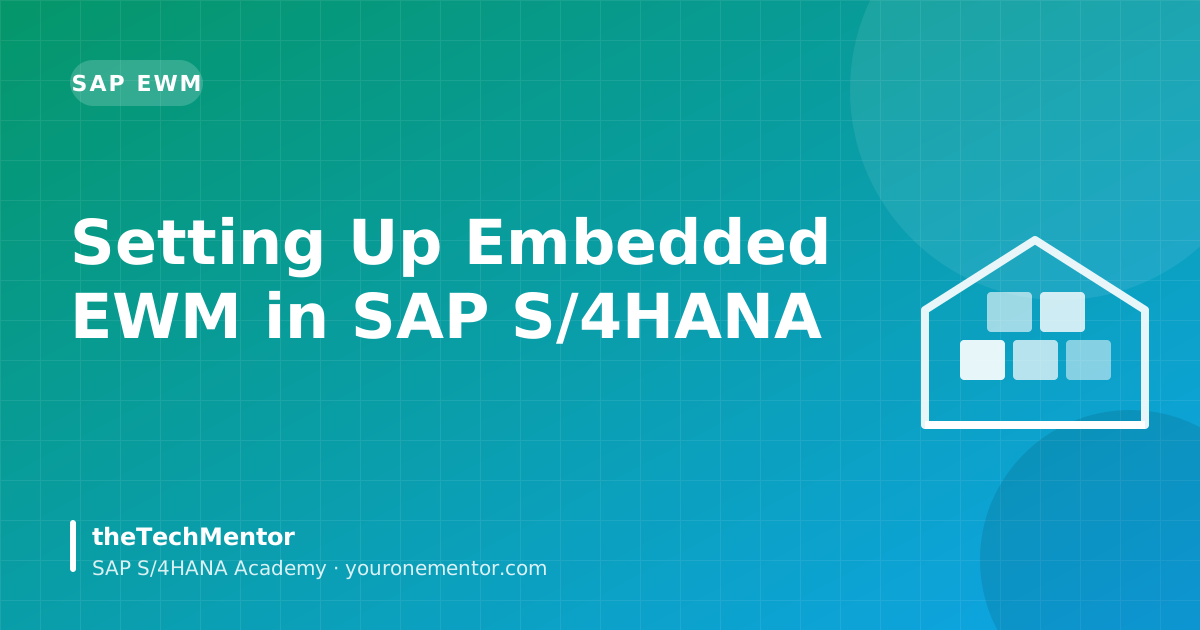
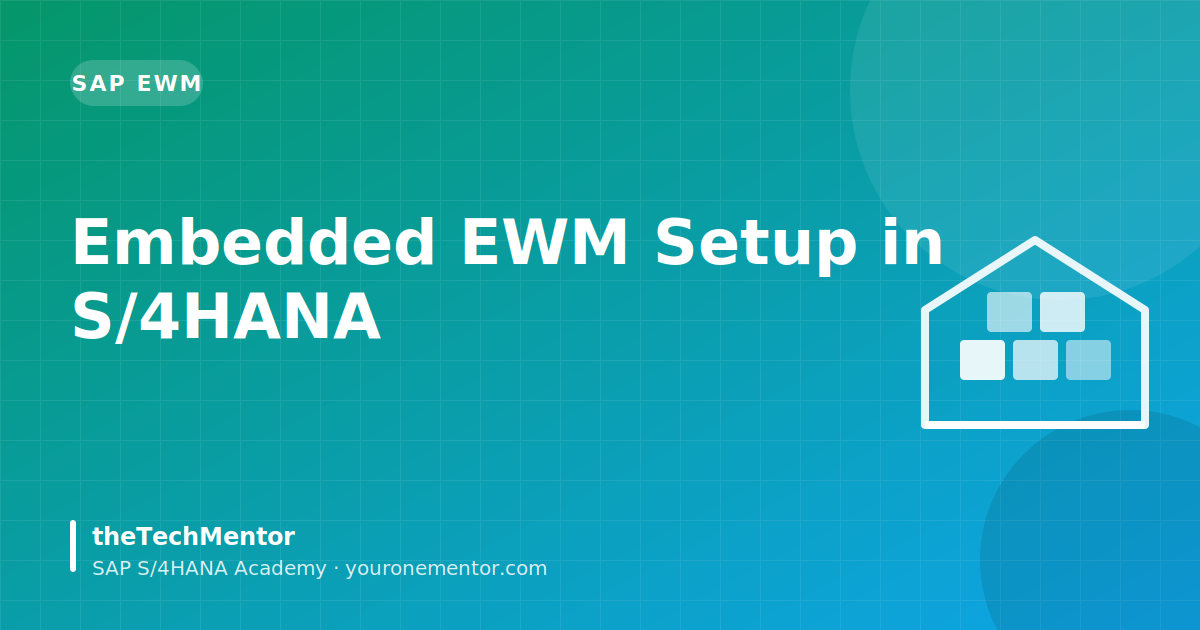
feat(blog): automated article

diff --git a/legacy/blog/embedded-ewm-s4hana-setup-walkthrough.html b/legacy/blog/embedded-ewm-s4hana-setup-walkthrough.html
@@ -3,97 +3,100 @@
 <head>
   <meta charset="UTF-8" />
   <meta name="viewport" content="width=device-width, initial-scale=1.0" />
-  <title>Setting Up Embedded EWM in SAP S/4HANA</title>
-  <meta name="description" content="Technical guide for setting up embedded EWM in SAP S/4HANA: warehouse numbering, storage types, sectioning, bin structures, and integration parameters." />
+  <title>Embedded EWM Setup in S/4HANA: Step-by-Step Walkthrough</title>
+  <meta name="description" content="Embedded EWM setup in S/4HANA explained: warehouse number, ERP mapping, storage types, bins, delivery integration, testing and errors. Follow the steps." />
   <link rel="canonical" href="https://youronementor.com/blog/embedded-ewm-s4hana-setup-walkthrough.html" />
-  <meta property="og:title" content="Setting Up Embedded EWM in SAP S/4HANA: Step-by-Step Walkthrough" />
-  <meta property="og:description" content="A comprehensive setup guide for SAP consultants implementing embedded warehouse management." />
+  <meta name="robots" content="index,follow,max-image-preview:large" />
+  <meta property="og:type" content="article" />
+  <meta property="og:url" content="https://youronementor.com/blog/embedded-ewm-s4hana-setup-walkthrough.html" />
+  <meta property="og:title" content="Setting Up Embedded EWM in S/4HANA: A Step-by-Step Architecture Walkthrough" />
+  <meta property="og:description" content="Embedded EWM setup in S/4HANA explained: warehouse number, ERP mapping, storage types, bins, delivery integration, testing and errors. Follow the steps." />
   <meta property="og:image" content="https://youronementor.com/blog/covers/embedded-ewm-s4hana-setup-walkthrough.png" />
+  <meta property="og:site_name" content="theTechMentor" />
+  <meta name="twitter:card" content="summary_large_image" />
+  <meta property="article:published_time" content="2026-11-20" />
+  <meta property="article:modified_time" content="2026-11-20" />
   <link rel="preconnect" href="https://fonts.googleapis.com" />
   <link rel="preconnect" href="https://fonts.gstatic.com" crossorigin />
-  <link rel="stylesheet" href="https://fonts.googleapis.com/css2?family=Inter:wght@400;500;600;700;800&family=Space+Grotesk:wght@500;600;700&display=swap" />
-  <link rel="stylesheet" href="../styles.css" />
-  <link rel="stylesheet" href="blog.css" />
-  <script src="https://checkout.razorpay.com/v1/checkout.js"></script>
-  <script type="application/ld+json">[{"@context": "https://schema.org", "@type": "Article", "headline": "Setting Up Embedded EWM in S/4HANA: A Step-by-Step Architecture Walkthrough", "description": "Technical guide for setting up embedded EWM in SAP S/4HANA: warehouse numbering, storage types, sectioning, bin structures, and integration parameters.", "image": "https://youronementor.com/images/og-cover.png", "author": {"@type": "Person", "name": "Anshuman Behuria", "url": "https://www.linkedin.com/in/anshuman-behuria-946860130"}, "publisher": {"@type": "Organization", "name": "theTechMentor", "url": "https://youronementor.com"}, "mainEntityOfPage": "https://youronementor.com/blog/embedded-ewm-s4hana-setup-walkthrough.html"}, {"@context": "https://schema.org", "@type": "BreadcrumbList", "itemListElement": [{"@type": "ListItem", "position": 1, "name": "Home", "item": "https://youronementor.com/"}, {"@type": "ListItem", "position": 2, "name": "Blog", "item": "https://youronementor.com/blog/"}, {"@type": "ListItem", "position": 3, "name": "Setting Up Embedded EWM in S/4HANA: A Step-by-Step Architecture Walkthrough", "item": "https://youronementor.com/blog/embedded-ewm-s4hana-setup-walkthrough.html"}]}]</script>
-  <meta name="robots" content="noindex,follow" />
-  <link rel="stylesheet" href="ai-article.css" />
-  <link rel="stylesheet" href="../theme-2030.css?v=1" />
+  <link rel="stylesheet" href="https://fonts.googleapis.com/css2?family=Inter:wght@400;500;600;700&family=Plus+Jakarta+Sans:wght@600;700;800&display=swap" />
+  <link rel="icon" href="../images/logo-mark.svg" type="image/svg+xml" />
+  <link rel="stylesheet" href="../site.css?v=7" />
+  <link rel="stylesheet" href="ai-article.css?v=3" />
+  <script type="application/ld+json">[{"@context": "https://schema.org", "@type": "Article", "headline": "Setting Up Embedded EWM in S/4HANA: A Step-by-Step Architecture Walkthrough", "description": "Embedded EWM setup in S/4HANA explained: warehouse number, ERP mapping, storage types, bins, delivery integration, testing and errors. Follow the steps.", "image": "https://youronementor.com/blog/covers/embedded-ewm-s4hana-setup-walkthrough.png", "datePublished": "2026-11-20", "dateModified": "2026-11-20", "author": {"@type": "Person", "name": "Anshuman Behuria", "url": "https://www.linkedin.com/in/anshuman-behuria-946860130"}, "publisher": {"@type": "Organization", "name": "theTechMentor", "url": "https://youronementor.com"}, "mainEntityOfPage": "https://youronementor.com/blog/embedded-ewm-s4hana-setup-walkthrough.html", "wordCount": 2189}, {"@context": "https://schema.org", "@type": "BreadcrumbList", "itemListElement": [{"@type": "ListItem", "position": 1, "name": "Home", "item": "https://youronementor.com/"}, {"@type": "ListItem", "position": 2, "name": "Blog", "item": "https://youronementor.com/blog/"}, {"@type": "ListItem", "position": 3, "name": "Setting Up Embedded EWM in S/4HANA: A Step-by-Step Architecture Walkthrough", "item": "https://youronementor.com/blog/embedded-ewm-s4hana-setup-walkthrough.html"}]}, {"@context": "https://schema.org", "@type": "FAQPage", "mainEntity": [{"@type": "Question", "name": "Is a separate server needed for embedded EWM in S/4HANA?", "acceptedAnswer": {"@type": "Answer", "text": "No. Embedded EWM runs in the same S/4HANA system and client. There is no separate SCM server and no CIF for master data. You do need the right licence for advanced EWM functions."}}, {"@type": "Question", "name": "Do the ERP and EWM warehouse numbers have to be the same?", "acceptedAnswer": {"@type": "Answer", "text": "No, they are separate configuration objects connected through mapping settings. Using the same 4-character number on both sides is a useful convention that makes tracing easier, but it is not enforced."}}, {"@type": "Question", "name": "Which T-code do I use to create storage bins in EWM?", "acceptedAnswer": {"@type": "Answer", "text": "Use /SCWM/LS01 to create a bin, /SCWM/LS02 to change it and /SCWM/LS03 to display it. /SCWM/LS10 is used for bin maintenance. Check your release for the bulk-creation options."}}, {"@type": "Question", "name": "How do I check whether an ERP delivery reached EWM?", "acceptedAnswer": {"@type": "Answer", "text": "Open /SCWM/PRDI for inbound or /SCWM/PRDO for outbound and search by the ERP delivery number. If nothing appears, check the storage location assignment, the document type mapping and the queues in SMQ1/SMQ2."}}, {"@type": "Question", "name": "Do I need the CIF for embedded EWM?", "acceptedAnswer": {"@type": "Answer", "text": "No. The CIF is used in ECC to move master data to a separate SCM system. In embedded EWM the material master and business partners are used directly from the same system."}}, {"@type": "Question", "name": "Can I switch from embedded to decentralized EWM later?", "acceptedAnswer": {"@type": "Answer", "text": "It is possible but it is a migration project, not a configuration change. Stock, open documents and master data all have to be moved. Decide early using the decision matrix."}}, {"@type": "Question", "name": "Which tables help me debug warehouse stock and tasks?", "acceptedAnswer": {"@type": "Answer", "text": "Use /SCWM/QUAN for stock quants, /SCWM/ORDIM_O and /SCWM/ORDIM_C for open and confirmed warehouse tasks, /SCWM/LAGP for bins, and /SCDL/DB_PROCH_I with /SCDL/DB_PROCI_I for inbound delivery data."}}]}]</script>
   <script src="../site-config.js"></script>
   <script src="../tracking.js"></script>
-  <link rel="icon" href="../images/logo-mark.svg" type="image/svg+xml" />
 </head>
-<body>
+<body class="ai-page" style="--accent:#059669;--accent2:#0ea5e9;--accent-soft:#d1fae5;">
   <div class="reading-progress" id="reading-progress-bar"></div>
-
   <header class="header">
-    <nav class="nav container">
-      <a href="../index.html" class="logo">
-        <img class="logo-img" src="../images/logo-mark.svg" width="32" height="32" alt="" />
-        <span class="logo-text">the<b>Tech</b>Mentor</span>
-      </a>
+    <nav class="nav wrap" aria-label="Main">
+      <a href="../index.html" class="brand" aria-label="theTechMentor home"><img src="../images/logo-mark.svg" alt="" width="36" height="36" /><span>the<b>Tech</b>Mentor</span></a>
+      <button class="nav-toggle" aria-label="Open menu" aria-expanded="false"><span></span><span></span><span></span></button>
       <ul class="nav-links">
         <li><a href="../index.html#courses">Courses</a></li>
+        <li><a href="../digital-products">Digital Products</a></li>
         <li><a href="../index.html#paths">Career paths</a></li>
-        <li><a href="index.html" style="color:var(--blog-accent-light); font-weight:600;">Blog Hub</a></li>
-        <li><a href="../index.html#advisor">Free counselling</a></li>
-        <li><a href="../index.html#courses" class="btn btn-sm">Explore courses</a></li>
+        <li><a href="index.html">Blog</a></li>
+        <li><a href="../index.html#advisor" class="btn btn-ghost btn-sm">Free counselling</a></li>
+        <li><a href="../index.html#courses" class="btn btn-primary btn-sm">Explore courses</a></li>
       </ul>
     </nav>
   </header>
 
-  <main class="blog-article-wrap">
-    <div class="blog-breadcrumb">
-      <a href="../index.html">Home</a> &gt; <a href="index.html">Blog</a> &gt; <span>Tutorials</span>
-    </div>
+  <main class="blog-article-wrap ai-wrap">
+    <nav class="blog-breadcrumb" aria-label="Breadcrumb">
+      <a href="../index.html">Home</a> &gt; <a href="index.html">Blog</a> &gt; <span>Tutorial</span>
+    </nav>
 
-    <header class="blog-header">
-      <span class="sp-badge sp-badge--purple" style="margin-bottom:1rem; display:inline-block;">Tutorial</span>
+    <header class="ai-hero">
+      <span class="ai-pill">SAP EWM TUTORIAL</span>
       <h1 class="blog-title">Setting Up Embedded EWM in S/4HANA: A Step-by-Step Architecture Walkthrough</h1>
-      
+      <p class="ai-dek">A practical embedded EWM setup in S/4HANA: warehouse number, ERP mapping, warehouse structure, delivery integration, an end-to-end test and the errors you will hit.</p>
       <div class="blog-meta">
         <div class="author-chip">
-          <img class="author-photo" src="../images/anshuman-behuria-96.jpg" alt="Anshuman Behuria" width="40" height="40" style="width:40px;height:40px;border-radius:50%;object-fit:cover" />
-          <div class="author-info">
-            <strong>Anshuman Behuria</strong>
-            <span>Lead SAP EWM Solution Architect</span>
-          </div>
+          <img class="author-photo" src="../images/anshuman-behuria-96.jpg" alt="Anshuman Behuria" width="40" height="40" />
+          <div class="author-info"><strong>Anshuman Behuria</strong><span>Lead SAP Mentor · theTechMentor</span></div>
         </div>
-        <span>•</span>
-        <span>⏱ 14 min read</span>
+        <span>Updated <time datetime="2026-11-20">Nov 20, 2026</time></span>
       </div>
+      <img class="ai-cover" src="covers/embedded-ewm-s4hana-setup-walkthrough.svg" width="1200" height="630" alt="Setting Up Embedded EWM in S/4HANA: A Step-by-Step Architecture Walkthrough" />
     </header>
 
-    <div class="toc-box">
-      <h3>📑 Implementation Blueprint</h3>
-      <ul class="toc-list">
-        <li><a href="#warehouse-definition">1. Define Warehouse Number & Assign Plant/Storage Location</a></li>
-        <li><a href="#storage-structure">2. Configure Storage Types, Sections & Bin Structures</a></li>
-        <li><a href="#delivery-integration">3. Direct S/4HANA Delivery Integration</a></li>
-        <li><a href="#comments-section">4. Technical Q&A and Community Troubleshooting</a></li>
-      </ul>
-    </div>
+    <article class="article-content ai-article">
+      <div class="glance"><div><span>Module</span><strong>SAP EWM</strong></div><div><span>Read time</span><strong>10 min</strong></div><div><span>Level</span><strong>Consultant</strong></div><div class="glance-codes"><span>T-codes covered</span><p><code>/SCWM/MAT1</code><code>SPRO</code><code>SCC4</code><code>/SCWM/USER</code><code>/SCWM/T300</code><code>EW01</code><code>/SCWM/T301</code><code>/SCWM/T302</code></p></div></div>
 
-    <article class="article-content">
-      <p>Embedded EWM in SAP S/4HANA eliminates the duplicate data replication and Core Interface (CIF) complexity of decentralized standalone EWM systems while maintaining enterprise-grade warehouse execution power.</p>
+      <div class="ai-intro"><p>Most embedded EWM projects stall in the first two weeks. The cause is rarely the warehouse design. It is usually the plumbing: a warehouse number that exists in EWM but is not tied to an ERP plant and storage location, or deliveries that never reach the warehouse. Setting up embedded EWM in S/4HANA is mostly about doing a short list of steps in the correct order.</p><p>This guide walks through that order. You will define the warehouse number, connect it to ERP, build a minimal warehouse structure, configure delivery integration, and run an inbound and outbound test. You will also get a table of the errors that usually appear and how to fix them. Where the older ECC/CIF-based setup differs from S/4HANA, or embedded differs from decentralized EWM, I say so. I have not copied exact IMG node names where they vary by release, so search the IMG for the quoted node names if your menu looks different.</p></div>
 
-      <h2 id="warehouse-definition">1. Define Warehouse Number & Assign Plant/Storage Location</h2>
-      <p>In Embedded EWM, the 4-digit ERP warehouse number is mapped 1:1 to a 4-character EWM warehouse number:</p>
-      <pre><code>SPRO -> SCM Extended Warehouse Management -> Extended Warehouse Management -> Master Data -> Define Warehouse Numbers</code></pre>
+      <div class="ai-box ai-takeaways"><div class="box-label">⚡ Key takeaways</div><ul><li>Embedded EWM runs in the same S/4HANA system, so there is no CIF and the ERP material master is used directly.</li><li>The warehouse number must be defined in EWM and connected to an ERP plant and storage location; this step makes the storage location EWM-managed.</li><li>Build a minimal structure first: storage types including GR and GI staging, sections and a few bins, then test.</li><li>Deliveries are the integration point: map ERP delivery types to EWM document types and watch queues with SMQ1/SMQ2.</li><li>Test inbound and outbound end to end and compare ERP stock in MMBE with EWM stock in /SCWM/MON.</li><li>Never delete queue entries or table data to fix errors; fix the cause and reprocess.</li></ul></div>
 
-      <h2 id="storage-structure">2. Configure Storage Types, Sections & Bin Structures</h2>
-      <p>Key structural definitions required inside the warehouse:</p>
-      <ul>
-        <li><strong>Storage Types:</strong> High-rack storage (<code>0010</code>), Bulk storage (<code>0020</code>), Mezzanine (<code>0030</code>), Staging Areas (<code>9010</code> / <code>9020</code>).</li>
-        <li><strong>Storage Sections:</strong> Fast-moving vs slow-moving zones within a storage type.</li>
-        <li><strong>Storage Bins:</strong> Created via automated coordinate templates (<code>/SCWM/LS10</code>) or manual creation (<code>/SCWM/LS01N</code>).</li>
-      </ul>
+      <div class="flow"><div class="flow-label">Process at a glance</div><ol class="flow-steps"><li><span class="flow-n">1</span><strong>Prepare prerequisites</strong><span>Confirm enterprise structure, logical system, business partners and authorisations.</span></li><li><span class="flow-n">2</span><strong>Define warehouse number</strong><span>Create the EWM warehouse number (/SCWM/T300) in the IMG.</span></li><li><span class="flow-n">3</span><strong>Map to ERP</strong><span>Assign the ERP warehouse to plant and storage location (T320) and map it to EWM.</span></li><li><span class="flow-n">4</span><strong>Build warehouse structure</strong><span>Create storage types, sections and bins with /SCWM/LS01.</span></li><li><span class="flow-n">5</span><strong>Configure deliveries and process</strong><span>Map document types, process types, storage control and product data (/SCWM/MAT1).</span></li><li><span class="flow-n">6</span><strong>Test end to end</strong><span>Run inbound and outbound cycles through /SCWM/PRDI, /SCWM/PRDO and /SCWM/MON.</span></li></ol></div>
 
-      <h2 id="delivery-integration">3. Direct S/4HANA Delivery Integration</h2>
-      <p>When an Inbound Delivery (<code>VL31N</code>) or Outbound Delivery (<code>VL01N</code>) is created in ERP, S/4HANA embedded EWM automatically instantiates corresponding Warehouse Requests without intermediary staging queues.</p>
+      <nav class="ai-box ai-toc" aria-label="Contents"><div class="box-label">📑 In this guide</div><ol><li><a href="#sec-1"><span>01</span>What embedded EWM actually means</a></li><li><a href="#sec-2"><span>02</span>Prerequisites before you touch the warehouse</a></li><li><a href="#sec-3"><span>03</span>Step 1: Define the EWM warehouse number</a></li><li><a href="#sec-4"><span>04</span>Step 2: Connect the warehouse to ERP plant and storage location</a></li><li><a href="#sec-5"><span>05</span>Step 3: Build the warehouse structure</a></li><li><a href="#sec-6"><span>06</span>Step 4: Configure delivery integration and process control</a></li><li><a href="#sec-7"><span>07</span>Step 5: Run an end-to-end test</a></li><li><a href="#sec-8"><span>08</span>Troubleshooting: common errors and fixes</a></li><li><a href="#sec-9"><span>09</span>Interview questions on this topic</a></li><li><a href="#faqs"><span>?</span>Frequently asked questions</a></li></ol></nav>
 
-      <!-- LEAD OPT-IN -->
+      <h2 id="sec-1"><span class="h2-n">01</span>What embedded EWM actually means</h2>
+<p>In embedded EWM, the EWM application runs inside the same S/4HANA system and client as MM, SD and FI. The EWM objects use the <code>/SCWM/</code> and <code>/SCDL/</code> namespaces, and they sit next to the classic ERP objects. There is no separate SCM server and no CIF to move master data across.</p><p>This changes three things you will notice immediately:</p><ul><li><strong>Material master:</strong> EWM reads the ERP material master directly. You only add warehouse-specific data with <code>/SCWM/MAT1</code>. See the <a href="material-master-views-s4hana-field-by-field-guide.html">material master views guide</a> for the fields that matter.</li><li><strong>Business partners:</strong> Plants, vendors and customers must exist as business partners, because EWM documents use partner IDs. Vendor and customer BPs come from CVI synchronisation, covered in the <a href="business-partner-vendors-s4hana-roles-grouping-number-ranges.html">business partner guide</a>.</li><li><strong>Deliveries:</strong> The ERP delivery is the leading document. EWM creates its own warehouse-side delivery (inbound delivery or outbound delivery order) from it.</li></ul><aside class="note"><strong>ECC vs S/4HANA:</strong> In ECC, EWM could only run as a separate SCM system, which meant CIF, a separate database and qRFC monitoring between two systems. In S/4HANA you can choose embedded or decentralized. If you are still deciding, read the <a href="s4hana-2026-embedded-ewm-vs-decentral-ewm-matrix.html">embedded vs decentralized decision matrix</a> first. Also check your licence: basic warehouse functions come with S/4HANA, but advanced EWM functions need the separate EWM licence.</aside>
+<h2 id="sec-2"><span class="h2-n">02</span>Prerequisites before you touch the warehouse</h2>
+<p>Check these items first. Missing one of them is behind most of the 'EWM does not work' tickets I see.</p><table><thead><tr><th>Prerequisite</th><th>Where to check</th><th>Why it matters</th></tr></thead><tbody><tr><td>Enterprise structure (company code, plant, storage location)</td><td><code>SPRO</code> &gt; Enterprise Structure. See the <a href="sap-mm-organisational-structure-s4hana.html">MM organisational structure guide</a></td><td>EWM warehouse is assigned to a plant and storage location pair</td></tr><tr><td>Logical system and business system group for the client</td><td><code>SCC4</code> and the SCM Basis settings in the IMG</td><td>EWM documents carry a system identity</td></tr><tr><td>Business partner for plant (and for the warehouse/supply chain unit)</td><td>Transaction <code>BP</code></td><td>The warehouse is defined against a partner/supply chain unit</td></tr><tr><td>EWM authorisations and user roles</td><td><code>PFCG</code>, then <code>/SCWM/USER</code> for warehouse-specific user data</td><td>RF and desktop users need a warehouse assignment</td></tr><tr><td>Number ranges for EWM documents</td><td>IMG, EWM delivery processing</td><td>Delivery creation fails without them</td></tr></tbody></table><aside class="tip">Keep a small naming sheet before you start: ERP plant, storage location, ERP warehouse number, EWM warehouse number, and the BP IDs. Using the same 4-character warehouse number on both sides makes tracing documents much easier. It is a convention I recommend, not something the system forces on you.</aside>
+<h2 id="sec-3"><span class="h2-n">03</span>Step 1: Define the EWM warehouse number</h2>
+<p>The warehouse number is the top-level object. Every storage type, bin, queue, process type and stock record hangs below it.</p><ol><li>Go to <code>SPRO</code> &gt; <code>SCM Extended Warehouse Management</code> &gt; <code>Extended Warehouse Management</code> &gt; <code>Master Data</code> &gt; <code>Define Warehouse Number</code>. The data is stored in <code>/SCWM/T300</code>.</li><li>Create the warehouse number, for example <code>EW01</code>, and give it a description.</li><li>Assign the supply chain unit / business partner that represents the warehouse.</li><li>Save, then open the related warehouse-number control settings and set the defaults for your warehouse, such as the unit of measure for weight and volume.</li></ol><p>A common point of confusion: the old thin version of this article said the ERP warehouse number is mapped 1:1 to the EWM number. In practice they are two separate configuration objects that you connect in the next step. The 1:1 pattern is a good convention, but it is not automatic.</p><aside class="warning">Do not create warehouse numbers casually in a shared development client. Warehouse numbers are hard to delete once documents, bins or stock exist against them. Agree the number first and transport it from a single client.</aside>
+<h2 id="sec-4"><span class="h2-n">04</span>Step 2: Connect the warehouse to ERP plant and storage location</h2>
+<p>This is the step that turns an isolated EWM warehouse into an integrated one. It has an ERP-side part and an EWM-side part.</p><table><thead><tr><th>Part</th><th>What you do</th><th>Where (search the IMG if the path differs)</th></tr></thead><tbody><tr><td>ERP side</td><td>Define the ERP warehouse number (Logistics Execution) and assign it to plant and storage location. The assignment is stored in <code>T320</code>.</td><td><code>SPRO</code> &gt; Enterprise Structure &gt; Definition / Assignment &gt; Logistics Execution</td></tr><tr><td>EWM side</td><td>Map the ERP warehouse number and the storage location to the EWM warehouse number</td><td><code>SPRO</code> &gt; <code>SCM Extended Warehouse Management</code> &gt; <code>Interfaces</code> &gt; <code>ERP Integration</code> &gt; General Settings (nodes named like 'Map Warehouse Numbers from ERP System to EWM' and 'Map Storage Locations from ERP System to EWM')</td></tr><tr><td>Plant</td><td>Make sure the plant has a business partner and a location</td><td><code>BP</code> and the ERP integration settings</td></tr></tbody></table><p>After this, a storage location assigned to the EWM warehouse is 'EWM-managed'. Stock in that location is no longer managed by ERP bin-level data. ERP keeps the quantity at storage location level, and EWM owns the bin-level detail.</p><aside class="tip">Split storage locations by purpose from day one. A typical set is one EWM-managed location for normal stock and a separate ERP-only location for items that should stay outside the warehouse, such as consumables. Changing the assignment after go-live means a stock migration.</aside>
+<h2 id="sec-5"><span class="h2-n">05</span>Step 3: Build the warehouse structure</h2>
+<p>A minimal but realistic structure is enough to test the integration. You can refine it later. The full theory of each object is in the <a href="sap-ewm-warehouse-structure-storage-types-sections-bins.html">warehouse structure guide</a>, so here I only show the build order and sample values.</p><table><thead><tr><th>Object</th><th>Sample value</th><th>Purpose</th><th>Config / T-code</th></tr></thead><tbody><tr><td>Storage type</td><td><code>0010</code> High-rack</td><td>Pallet storage</td><td>IMG &gt; Master Data &gt; Storage Type (<code>/SCWM/T301</code>)</td></tr><tr><td>Storage type</td><td><code>0020</code> Bulk</td><td>Floor stacking</td><td>Same node</td></tr><tr><td>Storage type</td><td><code>9010</code> GR area</td><td>Goods receipt staging (role: staging area)</td><td>Same node</td></tr><tr><td>Storage type</td><td><code>9020</code> GI area</td><td>Goods issue staging</td><td>Same node</td></tr><tr><td>Storage section</td><td><code>FAST</code>, <code>SLOW</code></td><td>Fast vs slow movers within a type</td><td>IMG &gt; Master Data &gt; Storage Section (<code>/SCWM/T302</code>)</td></tr><tr><td>Storage bin</td><td><code>0010-01-01-01</code></td><td>Physical location</td><td><code>/SCWM/LS01</code> create, <code>/SCWM/LS02</code> change, <code>/SCWM/LS10</code> maintain</td></tr></tbody></table><ol><li>Define the storage types, including the staging types for goods receipt and goods issue, and set their roles.</li><li>Define storage sections.</li><li>Define storage bin types and activity areas if you plan to use them for picking or putaway.</li><li>Create bins with <code>/SCWM/LS01</code> for a few bins, or use the maintenance transaction <code>/SCWM/LS10</code> and the bin-creation options in your release for bulk creation.</li><li>Define the door and yard objects only if you need inbound/outbound dock handling. See the <a href="sap-ewm-yard-management-tu-dock-door-check-in-guide.html">yard management guide</a>.</li></ol><p>Bins are stored in <code>/SCWM/LAGP</code>. If you ever need to check whether a bin exists, a quick look at that table settles the question.</p><aside class="note">I have deliberately left out the transaction <code>/SCWM/LS01N</code> that appears in older material. The create transaction I use is <code>/SCWM/LS01</code>. If your system offers a different mass-creation entry point, use it and confirm in your own release.</aside>
+<h2 id="sec-6"><span class="h2-n">06</span>Step 4: Configure delivery integration and process control</h2>
+<p>With structure in place, you tell the system how ERP deliveries become warehouse documents, and how the warehouse then moves goods.</p><h3>Delivery mapping</h3><p>Under the ERP Integration and delivery processing nodes in the IMG, map the ERP delivery types and item categories to EWM document types and item types. Standard EWM values are usually <code>INB</code> for the inbound delivery and <code>OUTB</code> for the outbound delivery order, with default item types for each. Start from the standard values and copy them only when you need a different behaviour.</p><h3>Process control</h3><ul><li><strong>Warehouse process types:</strong> They decide the movement logic (putaway, picking, posting changes). Read the <a href="sap-ewm-warehouse-process-types.html">warehouse process types guide</a>.</li><li><strong>Storage control:</strong> Use the process-oriented (POSC) or layout-oriented (LOSC) approach to route stock through staging, counting or packing. See <a href="sap-ewm-posc-losc-storage-control-deep-dive.html">POSC vs LOSC</a>.</li><li><strong>Determinations:</strong> Warehouse process type determination, putaway strategy and stock removal strategy need entries for your storage types. Without them, warehouse task creation fails.</li><li><strong>Product master:</strong> Use <code>/SCWM/MAT1</code> to maintain warehouse data and assign storage type search sequences.</li></ul><h3>How the delivery flows</h3><p>When you create an inbound delivery with <code>VL31N</code> or <code>VL01NO</code>, or an outbound delivery with <code>VL01N</code>, ERP checks whether the storage location is EWM-managed. If it is, a warehouse request is created in the same system. EWM then builds its own delivery from it. The data is stored in the <code>/SCDL/DB_PROCH_I</code> and <code>/SCDL/DB_PROCI_I</code> tables for inbound documents. Communication stays within one system, but queue-based processing can still be involved. Use <code>SMQ1</code> and <code>SMQ2</code> if a document seems stuck.</p><aside class="interview"><strong>Interview angle:</strong> 'How is embedded EWM different from decentralized in terms of integration?' A strong answer: no CIF, direct use of ERP master data, delivery-based integration within one system, and the point that goods movements update ERP stock through goods movement postings from EWM, not a separate interface server. Mention that you still monitor queues.</aside>
+<h2 id="sec-7"><span class="h2-n">07</span>Step 5: Run an end-to-end test</h2>
+<p>Test the cheapest scenario first: a standard purchase order, inbound, putaway, and then a sales order, picking and goods issue. For the purchasing steps, see the <a href="configure-purchase-order-cycle-s4hana.html">purchase order cycle guide</a>.</p><h3>Inbound</h3><ol><li>Create a PO with <code>ME21N</code> for a material with warehouse data, using the EWM-managed storage location.</li><li>Create the inbound delivery in ERP (<code>VL31N</code> for an ASN, or <code>VL01NO</code> against the PO).</li><li>Open <code>/SCWM/PRDI</code> and find the same delivery on the EWM side. Check the status and the document type.</li><li>Unload, create handling units if needed (<code>/SCWM/ADHU</code>), and post goods receipt from <code>/SCWM/PRDI</code>.</li><li>Create and confirm the putaway warehouse task (<code>/SCWM/TO_CONF</code> or via RF with <code>/SCWM/RFUI</code>).</li><li>Check that the stock appears in <code>/SCWM/MON</code> and that ERP shows the quantity in the storage location in <code>MMBE</code>.</li></ol><h3>Outbound</h3><ol><li>Create a sales order and an outbound delivery with <code>VL01N</code>.</li><li>Open <code>/SCWM/PRDO</code> to see the outbound delivery order.</li><li>Create the warehouse tasks, directly or through a wave (<a href="sap-ewm-wave-management-wocr-configuration.html">wave management</a>).</li><li>Confirm picks, pack if needed and post goods issue from <code>/SCWM/PRDO</code>.</li><li>Verify the goods issue in the ERP delivery, with the document flow, and the stock reduction in <code>MMBE</code>.</li></ol><aside class="tip">Check the open and confirmed warehouse task tables, <code>/SCWM/ORDIM_O</code> and <code>/SCWM/ORDIM_C</code>, and the stock table <code>/SCWM/QUAN</code> when debugging. They show you what the system believes, which is not always what the screen shows. The full cross-module picture is in the <a href="end-to-end-sap-logistics-mm-sd-ewm-tm-integration.html">end-to-end logistics guide</a>.</aside>
+<h2 id="sec-8"><span class="h2-n">08</span>Troubleshooting: common errors and fixes</h2>
+<p>Message wording differs by release, so I describe the symptom rather than quoting exact text. The cause and fix are what matter.</p><table><thead><tr><th>Symptom</th><th>Likely cause</th><th>Fix</th></tr></thead><tbody><tr><td>ERP delivery created, but no document in <code>/SCWM/PRDI</code> or <code>/SCWM/PRDO</code></td><td>Storage location is not assigned to the EWM warehouse, or the delivery type is not mapped</td><td>Check <code>T320</code> and the IMG mapping of storage location and document types</td></tr><tr><td>Delivery stuck in a queue</td><td>qRFC queue blocked by an earlier error</td><td>Open <code>SMQ1</code>/<code>SMQ2</code>, read the error, fix the cause, then reprocess</td></tr><tr><td>Product not maintained for warehouse</td><td>No warehouse-specific product data</td><td>Maintain it in <code>/SCWM/MAT1</code></td></tr><tr><td>No storage type found during putaway</td><td>No storage type search sequence or putaway control entry</td><td>Maintain the search sequence and determination on the product and in the IMG</td></tr><tr><td>Business partner missing for plant, vendor or customer</td><td>CVI sync or plant BP not created</td><td>Create or sync the BP in <code>BP</code> and rerun CVI</td></tr><tr><td>Storage bin does not exist</td><td>Bin not created, or wrong storage type</td><td>Check <code>/SCWM/LS03</code> or table <code>/SCWM/LAGP</code></td></tr><tr><td>User cannot log on to RF or desktop transactions for the warehouse</td><td>No warehouse assignment for the user</td><td>Maintain it in <code>/SCWM/USER</code> and check the authorisation roles</td></tr></tbody></table><aside class="warning">Do not clear queue entries or delete entries from the tables to 'get things moving'. You will create a mismatch between ERP and EWM stock that is painful to repair. Fix the cause and reprocess.</aside>
+<h2 id="sec-9"><span class="h2-n">09</span>Interview questions on this topic</h2>
+<ol><li><strong>What is the sequence of steps to set up embedded EWM?</strong> Prerequisites (BP, logical system), EWM warehouse number, ERP warehouse number and plant/storage location assignment, mapping to EWM, warehouse structure, product data, delivery and process configuration, then testing.</li><li><strong>What does an EWM-managed storage location mean?</strong> The location is assigned to an EWM warehouse. ERP keeps stock at location level, and EWM holds bin-level stock.</li><li><strong>Where do you check why an ERP delivery has not reached EWM?</strong> The storage location assignment, the document type mapping, the queues, and then the warehouse request/delivery on the EWM side.</li><li><strong>How is the product master handled in embedded EWM?</strong> Directly from the ERP material master, with warehouse-specific data in <code>/SCWM/MAT1</code>.</li></ol><aside class="interview">Interviewers like scenario questions: 'Goods receipt is posted in EWM but ERP stock is not updated. What do you check?' Walk through the goods movement posting, any blocked queues, and the storage location assignment. For more, use the <a href="top-25-sap-ewm-interview-questions-2026.html">top 25 EWM interview questions</a>.</aside><p>If you want hands-on practice, build this setup yourself on an S/4HANA sandbox. Doing the steps once teaches more than reading about them.</p>
+
+
+      
+
       <div class="ai-optin" id="lead-optin">
+        <div class="optin-icon">🎁</div>
         <strong>Free: SAP MM &amp; EWM video course + interview kit</strong>
         <p>Get the 40+ lesson playlist, the most-asked interview questions and our 90-day roadmap on WhatsApp.</p>
         <form class="ttm-optin-form" data-source="blog:embedded-ewm-s4hana-setup-walkthrough">
@@ -105,76 +108,37 @@
         <div class="ttm-optin-done" hidden></div>
       </div>
 
-      <div class="blog-course-cta">
-        <span class="tier-badge" style="background:#10b981; color:#fff; font-weight:700; padding:0.2rem 0.6rem; border-radius:4px; font-size:0.75rem; text-transform:uppercase;">EWM Masterclass</span>
-        <h3>Want Full Step-by-Step Embedded EWM Configuration Labs?</h3>
-        <p>Get instant access to 40+ hours of video lessons, master configuration workbooks, and RF lab scenarios.</p>
+      <h2 id="faqs"><span class="h2-n">?</span>Frequently asked questions</h2>
+      <details class="ai-faq"><summary>Is a separate server needed for embedded EWM in S/4HANA?</summary><p>No. Embedded EWM runs in the same S/4HANA system and client. There is no separate SCM server and no CIF for master data. You do need the right licence for advanced EWM functions.</p></details><details class="ai-faq"><summary>Do the ERP and EWM warehouse numbers have to be the same?</summary><p>No, they are separate configuration objects connected through mapping settings. Using the same 4-character number on both sides is a useful convention that makes tracing easier, but it is not enforced.</p></details><details class="ai-faq"><summary>Which T-code do I use to create storage bins in EWM?</summary><p>Use /SCWM/LS01 to create a bin, /SCWM/LS02 to change it and /SCWM/LS03 to display it. /SCWM/LS10 is used for bin maintenance. Check your release for the bulk-creation options.</p></details><details class="ai-faq"><summary>How do I check whether an ERP delivery reached EWM?</summary><p>Open /SCWM/PRDI for inbound or /SCWM/PRDO for outbound and search by the ERP delivery number. If nothing appears, check the storage location assignment, the document type mapping and the queues in SMQ1/SMQ2.</p></details><details class="ai-faq"><summary>Do I need the CIF for embedded EWM?</summary><p>No. The CIF is used in ECC to move master data to a separate SCM system. In embedded EWM the material master and business partners are used directly from the same system.</p></details><details class="ai-faq"><summary>Can I switch from embedded to decentralized EWM later?</summary><p>It is possible but it is a migration project, not a configuration change. Stock, open documents and master data all have to be moved. Decide early using the decision matrix.</p></details><details class="ai-faq"><summary>Which tables help me debug warehouse stock and tasks?</summary><p>Use /SCWM/QUAN for stock quants, /SCWM/ORDIM_O and /SCWM/ORDIM_C for open and confirmed warehouse tasks, /SCWM/LAGP for bins, and /SCDL/DB_PROCH_I with /SCDL/DB_PROCI_I for inbound delivery data.</p></details>
+
+      <div class="related"><div class="flow-label">Keep learning</div><div class="rel-grid"><a class="rel-card" href="s4hana-2026-embedded-ewm-vs-decentral-ewm-matrix.html"><img src="covers/s4hana-2026-embedded-ewm-vs-decentral-ewm-matrix.svg" alt="" loading="lazy" /><span>Embedded EWM vs Decentralized EWM on S/4HANA: A Practical Decision Matrix</span></a><a class="rel-card" href="sap-tm-s4hana-embedded-vs-standalone.html"><img src="covers/sap-tm-s4hana-embedded-vs-standalone.svg" alt="" loading="lazy" /><span>SAP TM in S/4HANA: Embedded vs Standalone Architecture Deep Dive</span></a><a class="rel-card" href="autonomous-ai-sap-mm-ewm-2026-guide.html"><img src="covers/autonomous-ai-sap-mm-ewm-2026-guide.svg" alt="" loading="lazy" /><span>Autonomous AI in SAP S/4HANA MM &amp; EWM: 2026 Guide</span></a></div></div>
+
+      <div class="blog-course-cta ai-cta">
+        <h3>Learn SAP hands-on with theTechMentor</h3>
+        <p>Live weekday &amp; weekend batches or 24/7 recorded courses, with S/4HANA practice server access and interview preparation.</p>
         <div class="blog-cta-actions">
-          <a href="../index.html#recorded" class="btn btn-primary">SAP EWM recorded course — ₹6,999 →</a>
-          <a href="../index.html#courses" class="btn btn-outline">Explore Live Batches</a>
+          <a href="../index.html#pricing" class="btn btn-primary">See programs &amp; fees</a>
+          <a href="../index.html#enroll" class="btn btn-outline">Book a free 15-min call</a>
         </div>
       </div>
     </article>
-
-    <section class="comments-section" id="comments-section">
-      <div class="comments-header">
-        <h3>💬 Embedded EWM Discussion & Q&A</h3>
-        <span class="comments-count-badge" id="comments-count">Loading...</span>
-      </div>
-
-      <div class="comment-form-card">
-        <div class="comment-form-title">
-          <span>✍</span> Have an Embedded EWM setup doubt?
-        </div>
-        <form id="new-comment-form">
-          <div class="form-row">
-            <input type="text" id="commenter-name" class="comment-input" placeholder="Your Name *" required />
-            <input type="email" id="commenter-email" class="comment-input" placeholder="Your Email (Optional)" />
-          </div>
-          <textarea id="commenter-message" class="comment-textarea" placeholder="Ask your question about storage types, bins, or delivery mapping..." required></textarea>
-          <div class="comment-form-footer">
-            <span style="font-size:0.85rem; color:var(--blog-muted);">⚡ Instant community feedback & instructor guidance.</span>
-            <button type="submit" class="comment-submit-btn">Post Question 🚀</button>
-          </div>
-        </form>
-      </div>
-
-      <div class="comments-list" id="comments-list-container"></div>
-    </section>
   </main>
 
-  <footer class="footer" style="margin-top:5rem;">
-    <div class="container footer-grid">
+  <footer class="footer">
+    <div class="wrap footer-grid">
       <div class="footer-brand">
-        <a href="../index.html" class="logo">
-          <img class="logo-img" src="../images/logo-mark.svg" width="32" height="32" alt="" />
-          <span class="logo-text">the<b>Tech</b>Mentor</span>
-        </a>
-        <p>SAP MM &amp; EWM training by <strong>Anshuman Behuria</strong>.</p>
+        <a href="../index.html" class="brand brand-light"><img src="../images/logo-mark.svg" alt="" width="32" height="32" /><span>the<b>Tech</b>Mentor</span></a>
+        <p>Online SAP S/4HANA academy for logistics, procurement and warehouse careers.</p>
       </div>
-      <div>
-        <h4>Quick links</h4>
-        <ul>
-          <li><a href="../index.html#courses">Courses</a></li>
-          <li><a href="../index.html#paths">Career paths</a></li>
-          <li><a href="index.html">Blog Hub</a></li>
-        </ul>
-      </div>
-      <div>
-        <h4>Contact</h4>
-        <ul>
-          <li><a href="mailto:info@youronementor.com">info@youronementor.com</a></li>
-          <li><a href="https://wa.me/917848942021" target="_blank">WhatsApp: +91 78489 42021</a></li>
-        </ul>
-      </div>
+      <div><h4>Courses</h4><ul><li><a href="../index.html#courses">All courses</a></li><li><a href="../index.html#paths">Career paths</a></li><li><a href="../index.html#formats">Live vs self-paced</a></li></ul></div>
+      <div><h4>Resources</h4><ul><li><a href="../digital-products">Digital Products</a></li><li><a href="index.html">Blog</a></li><li><a href="../index.html#faq">FAQ</a></li><li><a href="../index.html#advisor">Free counselling</a></li></ul></div>
+      <div><h4>Contact</h4><ul><li><a href="mailto:info@youronementor.com">info@youronementor.com</a></li><li><a href="https://wa.me/917848942021" target="_blank" rel="noopener noreferrer">WhatsApp +91 78489 42021</a></li></ul></div>
+      <div><h4>Legal</h4><ul><li><a href="../privacy.html">Privacy</a></li><li><a href="../terms.html">Terms</a></li><li><a href="../refund.html">Refunds</a></li></ul></div>
     </div>
-    <div class="footer-bottom container">
-      <p>&copy; 2026 theTechMentor · Anshuman Behuria. All rights reserved.</p>
-    </div>
+    <div class="wrap footer-bottom"><p>© 2026 theTechMentor. SAP and S/4HANA are trademarks of SAP SE; theTechMentor is not affiliated with SAP SE.</p></div>
+    <div class="footer-wordmark" aria-hidden="true"><img src="../images/footer-wordmark.webp?v=3" alt="" width="2000" height="306" loading="lazy" /></div>
   </footer>
-
-  <script src="../script.js"></script>
-  <script src="blog-comments.js"></script>
   <script src="blog-leads.js"></script>
+  <script>document.querySelector(".nav-toggle")?.addEventListener("click",function(){var l=document.querySelector(".nav-links");var o=l.classList.toggle("open");this.setAttribute("aria-expanded",String(o));});</script>
 </body>
 </html>

diff --git a/legacy/blog/index.html b/legacy/blog/index.html
@@ -503,7 +503,7 @@
           <div class="blog-thumb" style="background:#0b1220 url('covers/embedded-ewm-s4hana-setup-walkthrough.svg') center/cover no-repeat;"></div>
           <div class="blog-body">
             <span class="blog-post-badge blog-post-badge--purple">Tutorial</span>
-            <h2 class="blog-post-title">Setting up embedded EWM in S/4HANA: a step-by-step walkthrough</h2>
+            <h2 class="blog-post-title">Setting Up Embedded EWM in S/4HANA: A Step-by-Step Architecture Walkthrough</h2>
             <div class="blog-meta-line">By Anshuman Behuria &middot; 14 min read &middot; Jun 15, 2026</div>
             <a href="embedded-ewm-s4hana-setup-walkthrough.html" class="blog-read-link">Read article &amp; join discussion &rarr;</a>
           </div>

diff --git a/legacy/docs/SCREENSHOTS-TODO.md b/legacy/docs/SCREENSHOTS-TODO.md
@@ -260,3 +260,11 @@ Folder: `images/blog/core-data-services-cds-views-beginners-s4hana/`
 - [ ] 03: Eclipse ADT: Data Preview of a newly created CDS view (e.g., of MARA/MAKT data)
 - [ ] 04: Eclipse ADT: Example of a CDS view with basic annotations
 - [ ] 05: Eclipse ADT: Showing an association or a simple join in a CDS view
+
+## Setting Up Embedded EWM in S/4HANA: A Step-by-Step Architecture Walkthrough
+Folder: `images/blog/embedded-ewm-s4hana-setup-walkthrough/`
+- [ ] 01: SPRO: Extended Warehouse Management > Master Data > Define Warehouse Number showing the new warehouse entry
+- [ ] 02: SPRO Enterprise Structure: assignment of the warehouse number to plant and storage location (T320)
+- [ ] 03: /SCWM/LS01 or /SCWM/LS10 screen with a created storage bin and its storage type
+- [ ] 04: /SCWM/PRDI showing an inbound delivery created from an ERP delivery
+- [ ] 05: /SCWM/MON stock overview for the test product beside MMBE for the same material
